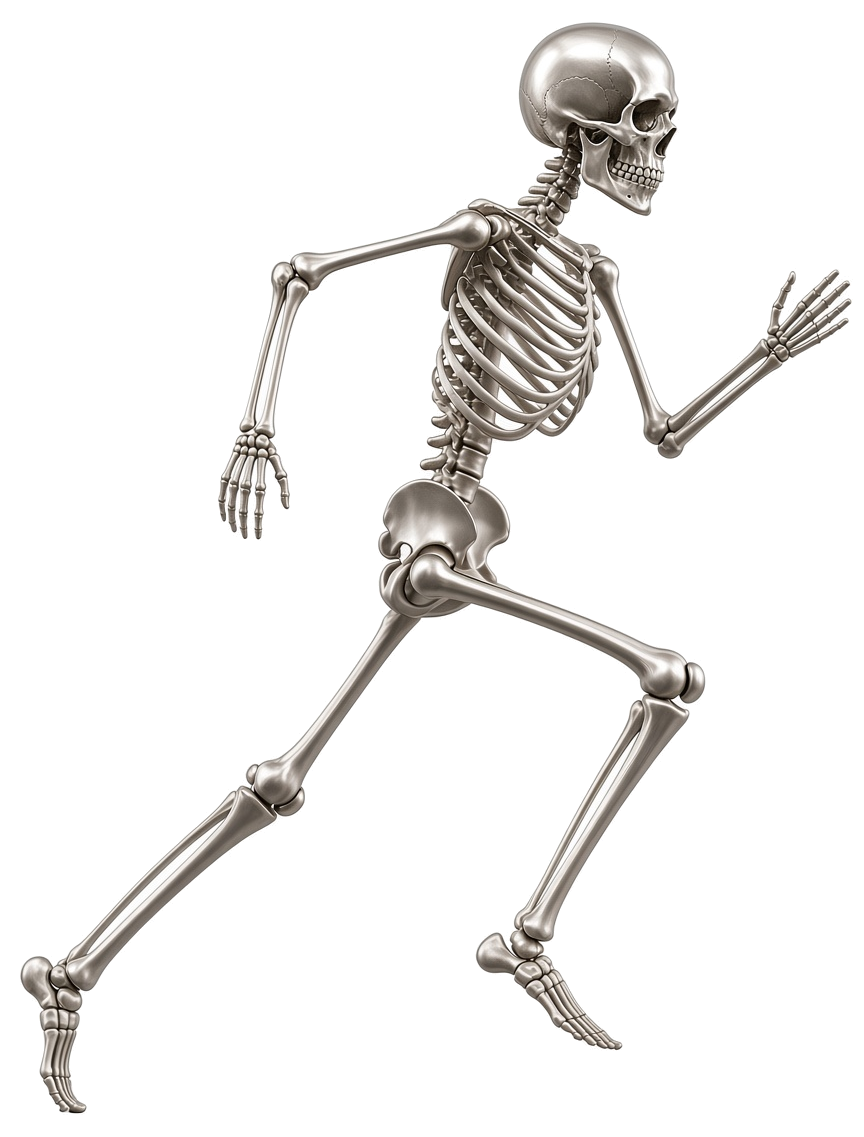
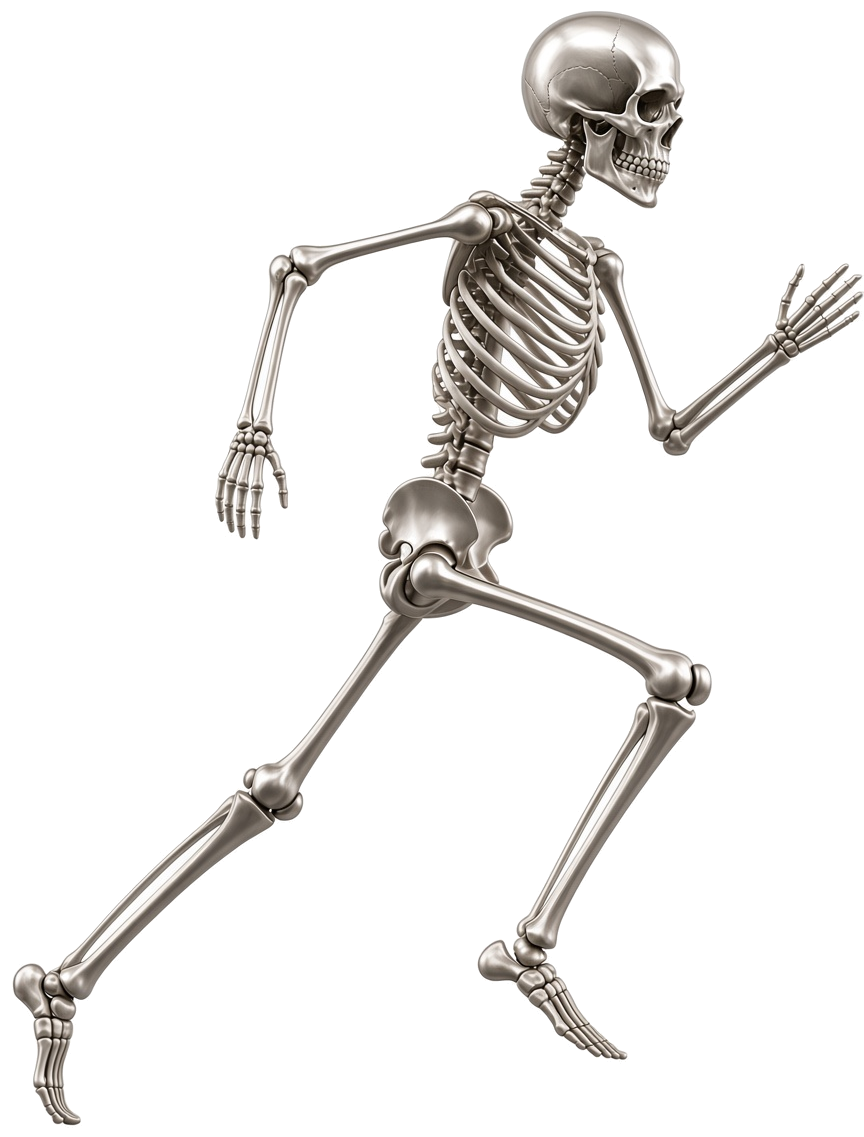
32.341: Real run cycle, half size, and a percent ring.
Swap the bounce for three snap-cycled run poses, shrink the figure 50%, and put a glass percent circle in the capsule. Analysis math is unchanged.

Changed region(s): [[0.25, 0.0, 1.0, 0.5541], [0.5312, 0.5233, 0.8438, 0.9543], [0.0, 0.5541, 0.4375, 1.0]]

diff --git a/frontend/public/index.html b/frontend/public/index.html
@@ -1,15 +1,15 @@
 <!DOCTYPE html>
 <html lang="en">
   <head>
-    <link rel="stylesheet" href="%PUBLIC_URL%/clinic_touch.css?v=32.340" />
-    <link rel="stylesheet" href="%PUBLIC_URL%/liquid_glass.css?v=32.340" />
+    <link rel="stylesheet" href="%PUBLIC_URL%/clinic_touch.css?v=32.341" />
+    <link rel="stylesheet" href="%PUBLIC_URL%/liquid_glass.css?v=32.341" />
     <meta charset="utf-8" />
     <link rel="icon" href="%PUBLIC_URL%/favicon.ico?v=32.86" sizes="any" />
     <link rel="icon" href="%PUBLIC_URL%/logo192.png?v=32.86" type="image/png" sizes="192x192" />
     <link rel="icon" href="%PUBLIC_URL%/favicon-32.png?v=32.86" type="image/png" sizes="32x32" />
     <meta name="viewport" content="width=device-width, initial-scale=1, viewport-fit=cover" />
     <meta http-equiv="Cache-Control" content="no-cache, no-store, must-revalidate" />
-    <meta name="nl-version" content="32.340" />
+    <meta name="nl-version" content="32.341" />
     <meta name="theme-color" content="#121820" media="(prefers-color-scheme: dark)" />
     <meta name="theme-color" content="#121820" />
     <style>html,body{margin:0;padding:0;background:#121820;color:#fff;color-scheme:dark;font-family:Inter,system-ui,sans-serif}#root{min-height:100vh}</style>
@@ -76,10 +76,10 @@
   <body>
     <noscript>You need to enable JavaScript to run this app.</noscript>
     <div id="root"><p style="padding:2rem;text-align:center;color:#fff9">Loading NeuroLab…</p></div>
-    <script src="%PUBLIC_URL%/pwa_ipad_sync.js?v=32.340"></script>
+    <script src="%PUBLIC_URL%/pwa_ipad_sync.js?v=32.341"></script>
     <script>
       (function () {
-        var href = "%PUBLIC_URL%/liquid_glass.css?v=32.340";
+        var href = "%PUBLIC_URL%/liquid_glass.css?v=32.341";
         function pin() {
           var el = document.getElementById("nl-liquid-glass-link");
           if (!el) {
@@ -118,19 +118,40 @@
             chips[i].classList.toggle("is-active", i === active);
             chips[i].classList.toggle("is-done", i < active);
           }
+          var n = pct != null && !isNaN(Number(pct)) ? Math.max(0, Math.min(100, Math.round(Number(pct)))) : null;
+          var num = host.querySelector(".kin-run__pct-num");
+          if (num) num.textContent = n == null ? "–" : String(n);
+          var ring = host.querySelector(".kin-run__pct-arc");
+          if (ring) {
+            var c = 2 * Math.PI * 15;
+            var dash = n == null ? 0 : (n / 100) * c;
+            ring.setAttribute("stroke-dasharray", Math.max(0.4, dash) + " " + c);
+          }
+          var pctEl = host.querySelector(".kin-run__pct");
+          if (pctEl) pctEl.classList.toggle("is-empty", n == null);
         }
         function ensureRun(host) {
           var cap = host.querySelector(".kin-analyze-stage__capsule") || host;
           var leftover = cap.querySelector(".kin-orbit, .kin-liquid-orb, .kin-run__svg");
           if (leftover && leftover.parentNode) leftover.parentNode.removeChild(leftover);
           var stale = cap.querySelector(".kin-run");
-          if (stale && (stale.querySelector(".kin-run__svg") || !stale.querySelector(".kin-run__figure"))) {
+          if (stale && (
+            stale.querySelector(".kin-run__svg")
+            || !stale.querySelector(".kin-run__figure--b")
+            || !stale.querySelector(".kin-run__pct")
+          )) {
             stale.parentNode.removeChild(stale);
           }
           if (cap.querySelector(".kin-run")) return;
           var html = '<div class="kin-run__stage">'
-            + '<span class="kin-run__figure" style="background-image:url(\'./static/kin-run/pose-a.png\')"></span>'
-            + '<span class="kin-run__ground"></span></div><div class="kin-run__pips">';
+            + '<span class="kin-run__figure kin-run__figure--a" style="background-image:url(\'./static/kin-run/pose-a.png?v=32.341\')"></span>'
+            + '<span class="kin-run__figure kin-run__figure--b" style="background-image:url(\'./static/kin-run/pose-b.png?v=32.341\')"></span>'
+            + '<span class="kin-run__figure kin-run__figure--c" style="background-image:url(\'./static/kin-run/pose-c.png?v=32.341\')"></span>'
+            + '<span class="kin-run__ground"></span>'
+            + '<span class="kin-run__pct is-empty"><svg class="kin-run__pct-svg" viewBox="0 0 36 36" aria-hidden="true">'
+            + '<circle cx="18" cy="18" r="15" fill="none" stroke="rgba(255,255,255,0.12)" stroke-width="2.2"/>'
+            + '<circle class="kin-run__pct-arc" cx="18" cy="18" r="15" fill="none" stroke="rgba(255,255,255,0.88)" stroke-width="2.4" stroke-linecap="round" stroke-dasharray="0.4 94.2" transform="rotate(-90 18 18)"/>'
+            + '</svg><span class="kin-run__pct-num">–</span></span></div><div class="kin-run__pips">';
           for (var d = 0; d < 11; d += 1) html += '<span class="kin-run__pip"></span>';
           html += '</div>';
           var wrap = document.createElement("div");

diff --git a/frontend/src/labScrollGlass.test.js b/frontend/src/labScrollGlass.test.js
@@ -39,15 +39,21 @@ test("analysis stage capsule is muted glass and keeps the film-strip motion", ()
   expect(css).toMatch(/\.kin-analyze-stage__rail/);
   expect(css).toMatch(/\.kin-run__figure/);
   expect(css).toMatch(/\.kin-analyze-stage__capsule[\s\S]*?border-radius:\s*40px/);
-  expect(css).toMatch(/\.kin-run__stage[\s\S]*?height:\s*276px/);
-  expect(css).toMatch(/\.kin-run__figure[\s\S]*?width:\s*248px/);
-  expect(css).toMatch(/\.kin-run__figure[\s\S]*?height:\s*260px/);
+  expect(css).toMatch(/\.kin-run__stage[\s\S]*?height:\s*148px/);
+  expect(css).toMatch(/\.kin-run__figure[\s\S]*?width:\s*124px/);
+  expect(css).toMatch(/\.kin-run__figure[\s\S]*?height:\s*130px/);
+  expect(css).toMatch(/kin-run-pose 0\.42s steps\(1/);
+  expect(css).toMatch(/\.kin-run__pct/);
+  expect(app).toMatch(/kin-run__figure--\$\{id\}/);
+  expect(app).toMatch(/kin-run__pct-num/);
+  expect(app).toMatch(/<KinRunMark pct=\{pctRounded\} \/>/);
   expect(app).toMatch(/status === "analyzing"\) return `\$\{base\} overflow-visible/);
   expect(css).toMatch(/\.kin-run__ground/);
   expect(app).toMatch(/function KinAnalyzeStageCapsule/);
   expect(app).toMatch(/function KinRunMark/);
-  expect(app).toMatch(/<KinRunMark \/>/);
-  expect(app).toMatch(/static\/kin-run\/pose-a\.png/);
+  expect(app).toMatch(/<KinRunMark pct=\{pctRounded\} \/>/);
+  expect(app).toMatch(/static\/kin-run/);
+  expect(app).toMatch(/pose-\$\{id\}\.png/);
   expect(app).not.toMatch(/kin-run__skull/);
   expect(app).toMatch(/kin-analyze-stage__stepper/);
   expect(app).toMatch(/kinAnalyzeStageIndex\(step, pctRounded\)/);
@@ -56,6 +62,8 @@ test("analysis stage capsule is muted glass and keeps the film-strip motion", ()
   expect(app).not.toMatch(/border border-dashed px-3 py-5/);
   expect(app).not.toMatch(/if \(hasResult\) return `\$\{base\} ring-1/);
   expect(overlay).toMatch(/\.kin-run__figure/);
+  expect(overlay).toMatch(/kin-run-pose 0\.42s steps\(1/);
+  expect(overlay).toMatch(/\.kin-run__pct/);
   expect(overlay).toMatch(/border-radius: 40px !important/);
   expect(overlay).toMatch(/\.glass-float:has\(\.kin-analyze-stage\)/);
   expect(overlay).toMatch(/overflow: visible !important/);
@@ -69,6 +77,8 @@ test("analysis stage capsule is muted glass and keeps the film-strip motion", ()
   expect(html).toMatch(/if \(step \|\| pct != null\) syncAnalyzeSteps/);
   expect(html).toMatch(/function ensureRun/);
   expect(html).toMatch(/static\/kin-run\/pose-a\.png/);
+  expect(html).toMatch(/kin-run__figure--b/);
+  expect(html).toMatch(/kin-run__pct-num/);
   expect(html).not.toMatch(/<img class="kin-run__figure"/);
   expect(html).not.toMatch(/function standingSvg/);
   expect(html).not.toMatch(/function ensureOrbit/);

diff --git a/frontend/src/App.js b/frontend/src/App.js
@@ -3525,15 +3525,44 @@ function kinAnalyzeStageIndex(step, pct) {
   return 0;
 }
 
-const KIN_RUN_SRC = `${process.env.PUBLIC_URL || ""}/static/kin-run/pose-a.png`;
+const KIN_RUN_BASE = `${process.env.PUBLIC_URL || ""}/static/kin-run`;
+const KIN_RUN_FRAMES = ["a", "b", "c"];
 
-function KinRunMark() {
+function KinRunMark({ pct = null }) {
   const pips = Array.from({ length: 11 });
+  const pctRounded = pct != null && !Number.isNaN(Number(pct)) ? Math.max(0, Math.min(100, Math.round(Number(pct)))) : null;
+  const r = 15;
+  const circ = 2 * Math.PI * r;
+  const dash = pctRounded == null ? 0 : (pctRounded / 100) * circ;
   return (
     <div className="kin-run" aria-hidden>
       <div className="kin-run__stage">
-        <span className="kin-run__figure" style={{ backgroundImage: `url("${KIN_RUN_SRC}")` }} />
+        {KIN_RUN_FRAMES.map((id) => (
+          <span
+            key={id}
+            className={`kin-run__figure kin-run__figure--${id}`}
+            style={{ backgroundImage: `url("${KIN_RUN_BASE}/pose-${id}.png")` }}
+          />
+        ))}
         <span className="kin-run__ground" />
+        <span className={`kin-run__pct${pctRounded == null ? " is-empty" : ""}`}>
+          <svg className="kin-run__pct-svg" viewBox="0 0 36 36" aria-hidden>
+            <circle cx="18" cy="18" r={r} fill="none" stroke="rgba(255,255,255,0.12)" strokeWidth="2.2" />
+            <circle
+              className="kin-run__pct-arc"
+              cx="18"
+              cy="18"
+              r={r}
+              fill="none"
+              stroke="rgba(255,255,255,0.88)"
+              strokeWidth="2.4"
+              strokeLinecap="round"
+              strokeDasharray={`${Math.max(0.4, dash)} ${circ}`}
+              transform="rotate(-90 18 18)"
+            />
+          </svg>
+          <span className="kin-run__pct-num">{pctRounded == null ? "–" : pctRounded}</span>
+        </span>
       </div>
       <div className="kin-run__pips">
         {pips.map((_, i) => <span key={`p-${i}`} className="kin-run__pip" />)}
@@ -3550,7 +3579,7 @@ function KinAnalyzeStageCapsule({ accent = "amber", pct = null, step = "Analyzin
   return (
     <div className="kin-analyze-stage" data-nl-stadium="1">
       <div className="kin-analyze-stage__capsule">
-        <KinRunMark />
+        <KinRunMark pct={pctRounded} />
       </div>
       <div className="kin-analyze-stage__stepper" aria-label="Analysis stages">
         <span className="kin-analyze-stage__rail" aria-hidden />

diff --git a/frontend/src/index.css b/frontend/src/index.css
@@ -645,10 +645,13 @@ html.nl-overlay-expanded .content-shell .glass-float.nl-overlay-escape:not(.sect
   .kin-analyzing-ring {
     animation: none !important;
   }
-  .kin-run__figure,
-  .kin-run__svg {
-    opacity: 1 !important;
+  .kin-run__figure {
+    animation: none !important;
+    opacity: 0 !important;
     transform: translateX(-50%) !important;
+  }
+  .kin-run__figure--a {
+    opacity: 1 !important;
   }
 }
 
@@ -672,32 +675,27 @@ html.nl-overlay-expanded .content-shell .glass-float.nl-overlay-escape:not(.sect
   33%, 100% { opacity: 0; }
 }
 
-@keyframes kin-run-stride {
-  0%, 100% { transform: translateX(-50%) translateY(0); }
-  50% { transform: translateX(-50%) translateY(2px); }
-}
-
 .kin-run {
   display: flex;
   flex-direction: column;
   align-items: center;
   width: 100%;
-  gap: 8px;
+  gap: 6px;
 }
 
 .kin-run__stage {
   position: relative;
   overflow: visible;
   width: 100%;
-  height: 276px;
+  height: 148px;
 }
 
 .kin-run__figure {
   position: absolute;
   left: 50%;
-  bottom: 16px;
-  width: 248px;
-  height: 260px;
+  bottom: 10px;
+  width: 124px;
+  height: 130px;
   overflow: visible;
   pointer-events: none;
   -webkit-touch-callout: none;
@@ -707,7 +705,45 @@ html.nl-overlay-expanded .content-shell .glass-float.nl-overlay-escape:not(.sect
   background-position: center bottom;
   background-size: contain;
   transform: translateX(-50%);
-  animation: kin-run-stride 0.66s cubic-bezier(0.22, 1, 0.36, 1) infinite;
+  opacity: 0;
+  animation: kin-run-pose 0.42s steps(1, end) infinite;
+}
+
+.kin-run__figure--a { animation-delay: 0s; }
+.kin-run__figure--b { animation-delay: -0.14s; }
+.kin-run__figure--c { animation-delay: -0.28s; }
+
+.kin-run__pct {
+  position: absolute;
+  top: 6px;
+  right: 8px;
+  width: 44px;
+  height: 44px;
+  border-radius: 999px;
+  display: flex;
+  align-items: center;
+  justify-content: center;
+  pointer-events: none;
+  background: rgba(255, 255, 255, 0.028);
+  border: 1px solid rgba(255, 255, 255, 0.10);
+  box-shadow: inset 0 -8px 14px rgba(70, 130, 180, 0.05);
+}
+
+.kin-run__pct-svg {
+  position: absolute;
+  inset: 0;
+  width: 100%;
+  height: 100%;
+}
+
+.kin-run__pct-num {
+  position: relative;
+  z-index: 1;
+  font-size: 11px;
+  font-weight: 700;
+  letter-spacing: -0.02em;
+  color: rgba(255, 255, 255, 0.92);
+  font-variant-numeric: tabular-nums;
 }
 
 .kin-run__ground {

diff --git a/frontend/public/liquid_glass.css b/frontend/public/liquid_glass.css
@@ -209,29 +209,25 @@ html.nl-overlay-expanded.nl-touch .content-shell .glass-float:not(.validation-pl
   0%, 32.9% { opacity: 1; }
   33%, 100% { opacity: 0; }
 }
-@keyframes kin-run-stride {
-  0%, 100% { transform: translateX(-50%) translateY(0); }
-  50% { transform: translateX(-50%) translateY(2px); }
-}
 .kin-run {
   display: flex;
   flex-direction: column;
   align-items: center;
   width: 100%;
-  gap: 8px;
+  gap: 6px;
 }
 .kin-run__stage {
   position: relative;
   overflow: visible;
   width: 100%;
-  height: 276px;
+  height: 148px;
 }
 .kin-run__figure {
   position: absolute;
   left: 50%;
-  bottom: 16px;
-  width: 248px;
-  height: 260px;
+  bottom: 10px;
+  width: 124px;
+  height: 130px;
   overflow: visible !important;
   pointer-events: none;
   -webkit-touch-callout: none;
@@ -241,7 +237,41 @@ html.nl-overlay-expanded.nl-touch .content-shell .glass-float:not(.validation-pl
   background-position: center bottom;
   background-size: contain;
   transform: translateX(-50%);
-  animation: kin-run-stride 0.66s cubic-bezier(0.22, 1, 0.36, 1) infinite;
+  opacity: 0;
+  animation: kin-run-pose 0.42s steps(1, end) infinite;
+}
+.kin-run__figure--a { animation-delay: 0s; }
+.kin-run__figure--b { animation-delay: -0.14s; }
+.kin-run__figure--c { animation-delay: -0.28s; }
+.kin-run__pct {
+  position: absolute;
+  top: 6px;
+  right: 8px;
+  width: 44px;
+  height: 44px;
+  border-radius: 999px;
+  display: flex;
+  align-items: center;
+  justify-content: center;
+  pointer-events: none;
+  background: rgba(255, 255, 255, 0.028);
+  border: 1px solid rgba(255, 255, 255, 0.10);
+  box-shadow: inset 0 -8px 14px rgba(70, 130, 180, 0.05);
+}
+.kin-run__pct-svg {
+  position: absolute;
+  inset: 0;
+  width: 100%;
+  height: 100%;
+}
+.kin-run__pct-num {
+  position: relative;
+  z-index: 1;
+  font-size: 11px;
+  font-weight: 700;
+  letter-spacing: -0.02em;
+  color: rgba(255, 255, 255, 0.92);
+  font-variant-numeric: tabular-nums;
 }
 .kin-run__ground {
   position: absolute;
@@ -374,8 +404,11 @@ label[for^="kin-file-"]:has(.kin-film-strip) {
   .kin-run__figure,
   .kin-run__svg {
     animation: none !important;
-    opacity: 1 !important;
+    opacity: 0 !important;
     transform: translateX(-50%) !important;
+  }
+  .kin-run__figure--a {
+    opacity: 1 !important;
   }
 }
 
